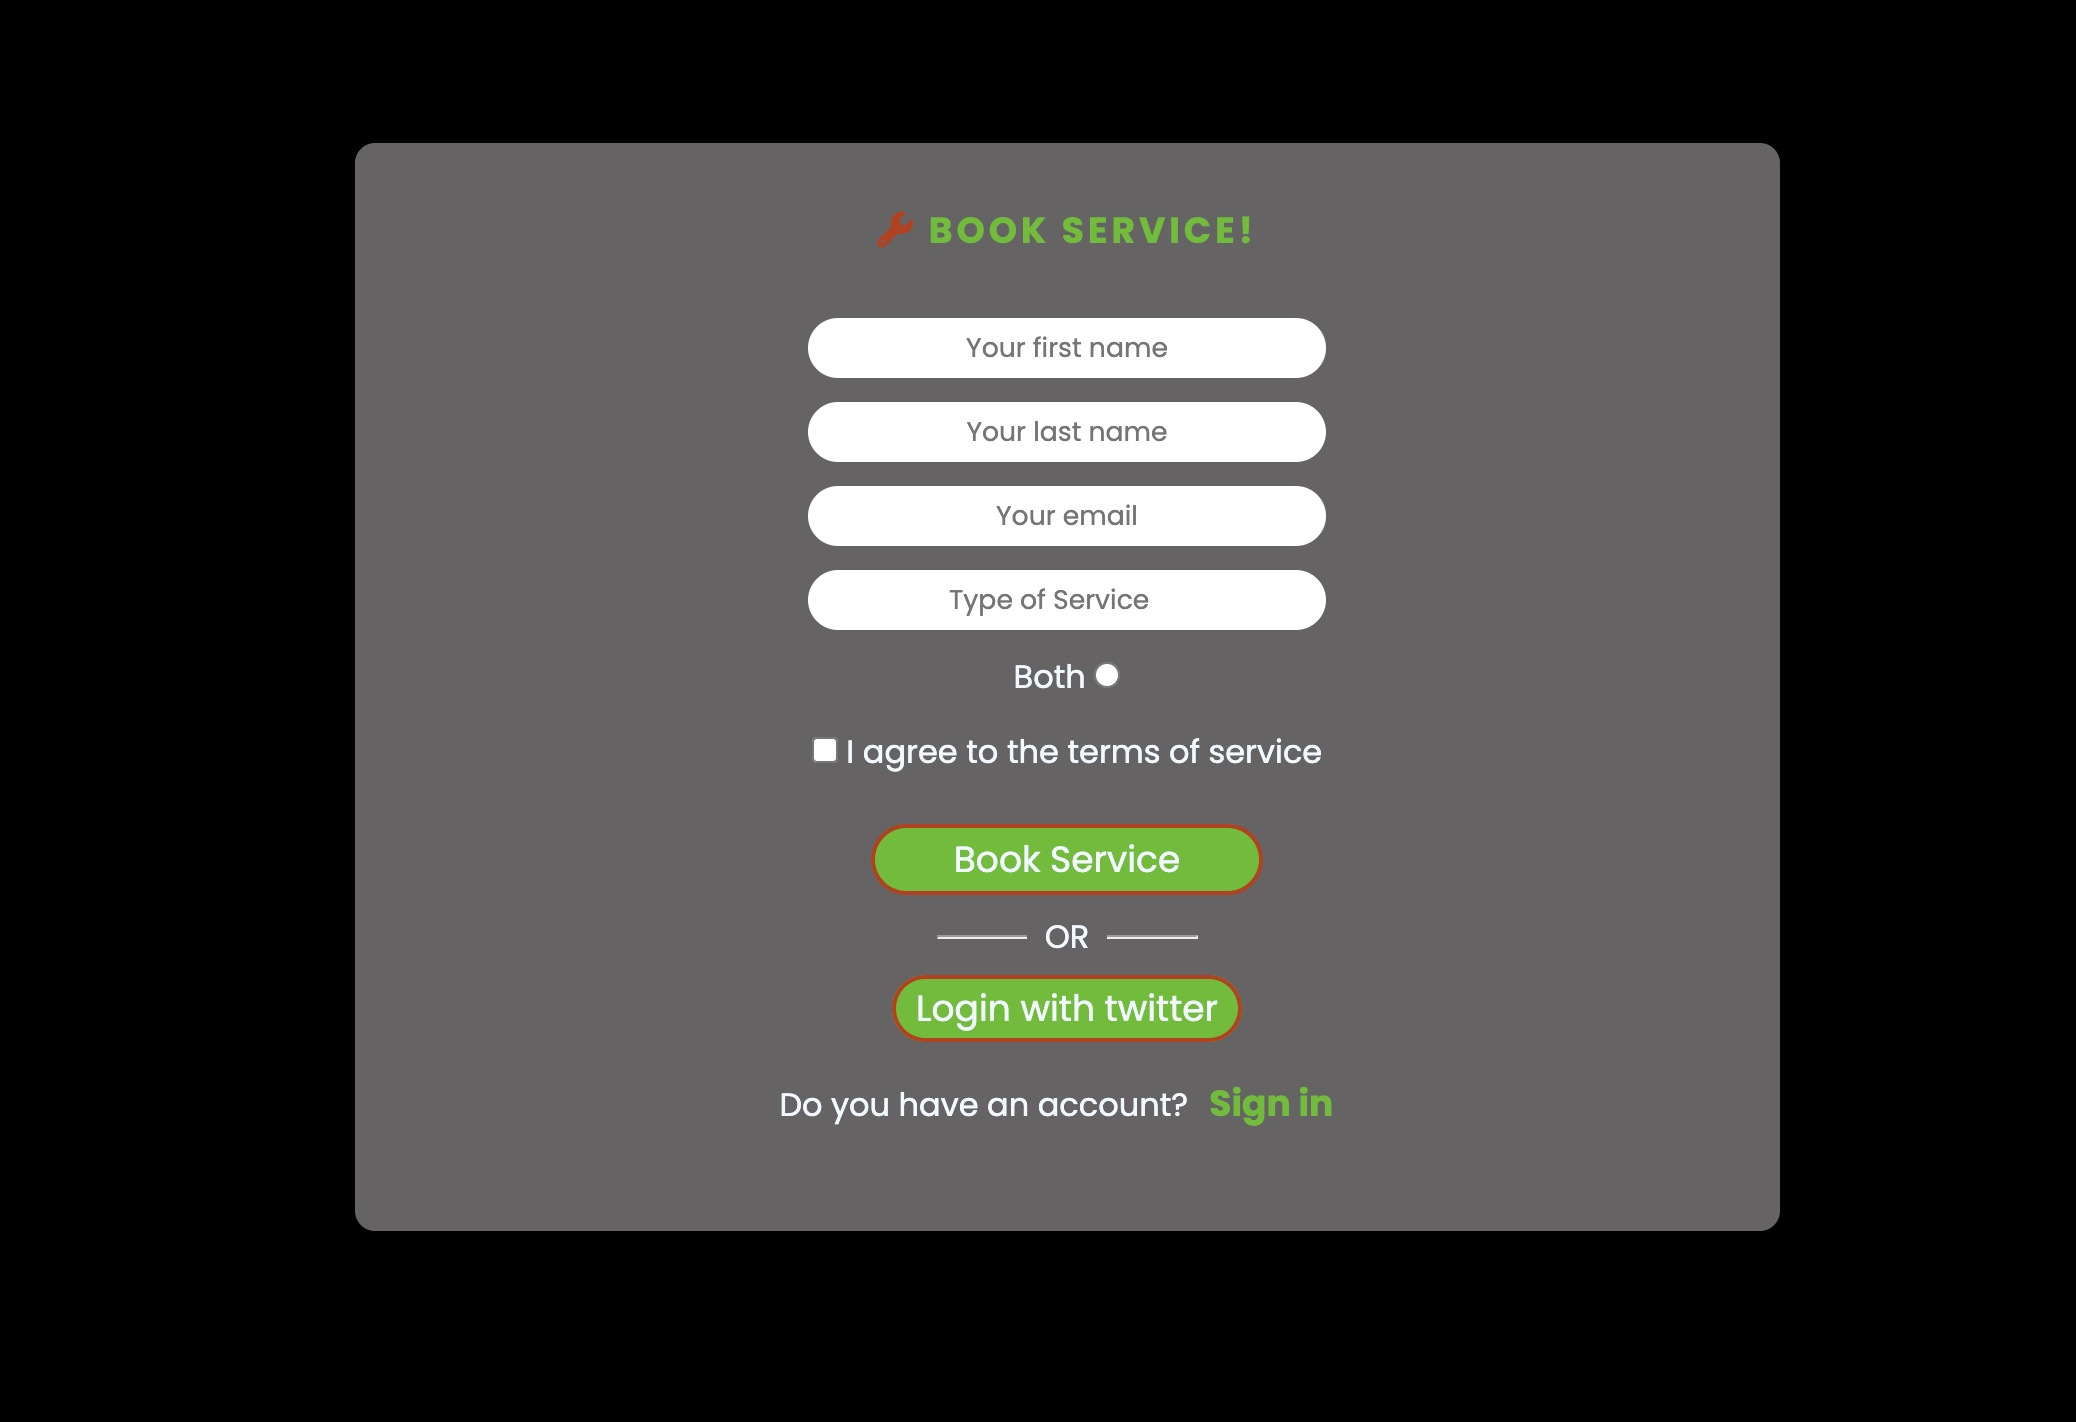
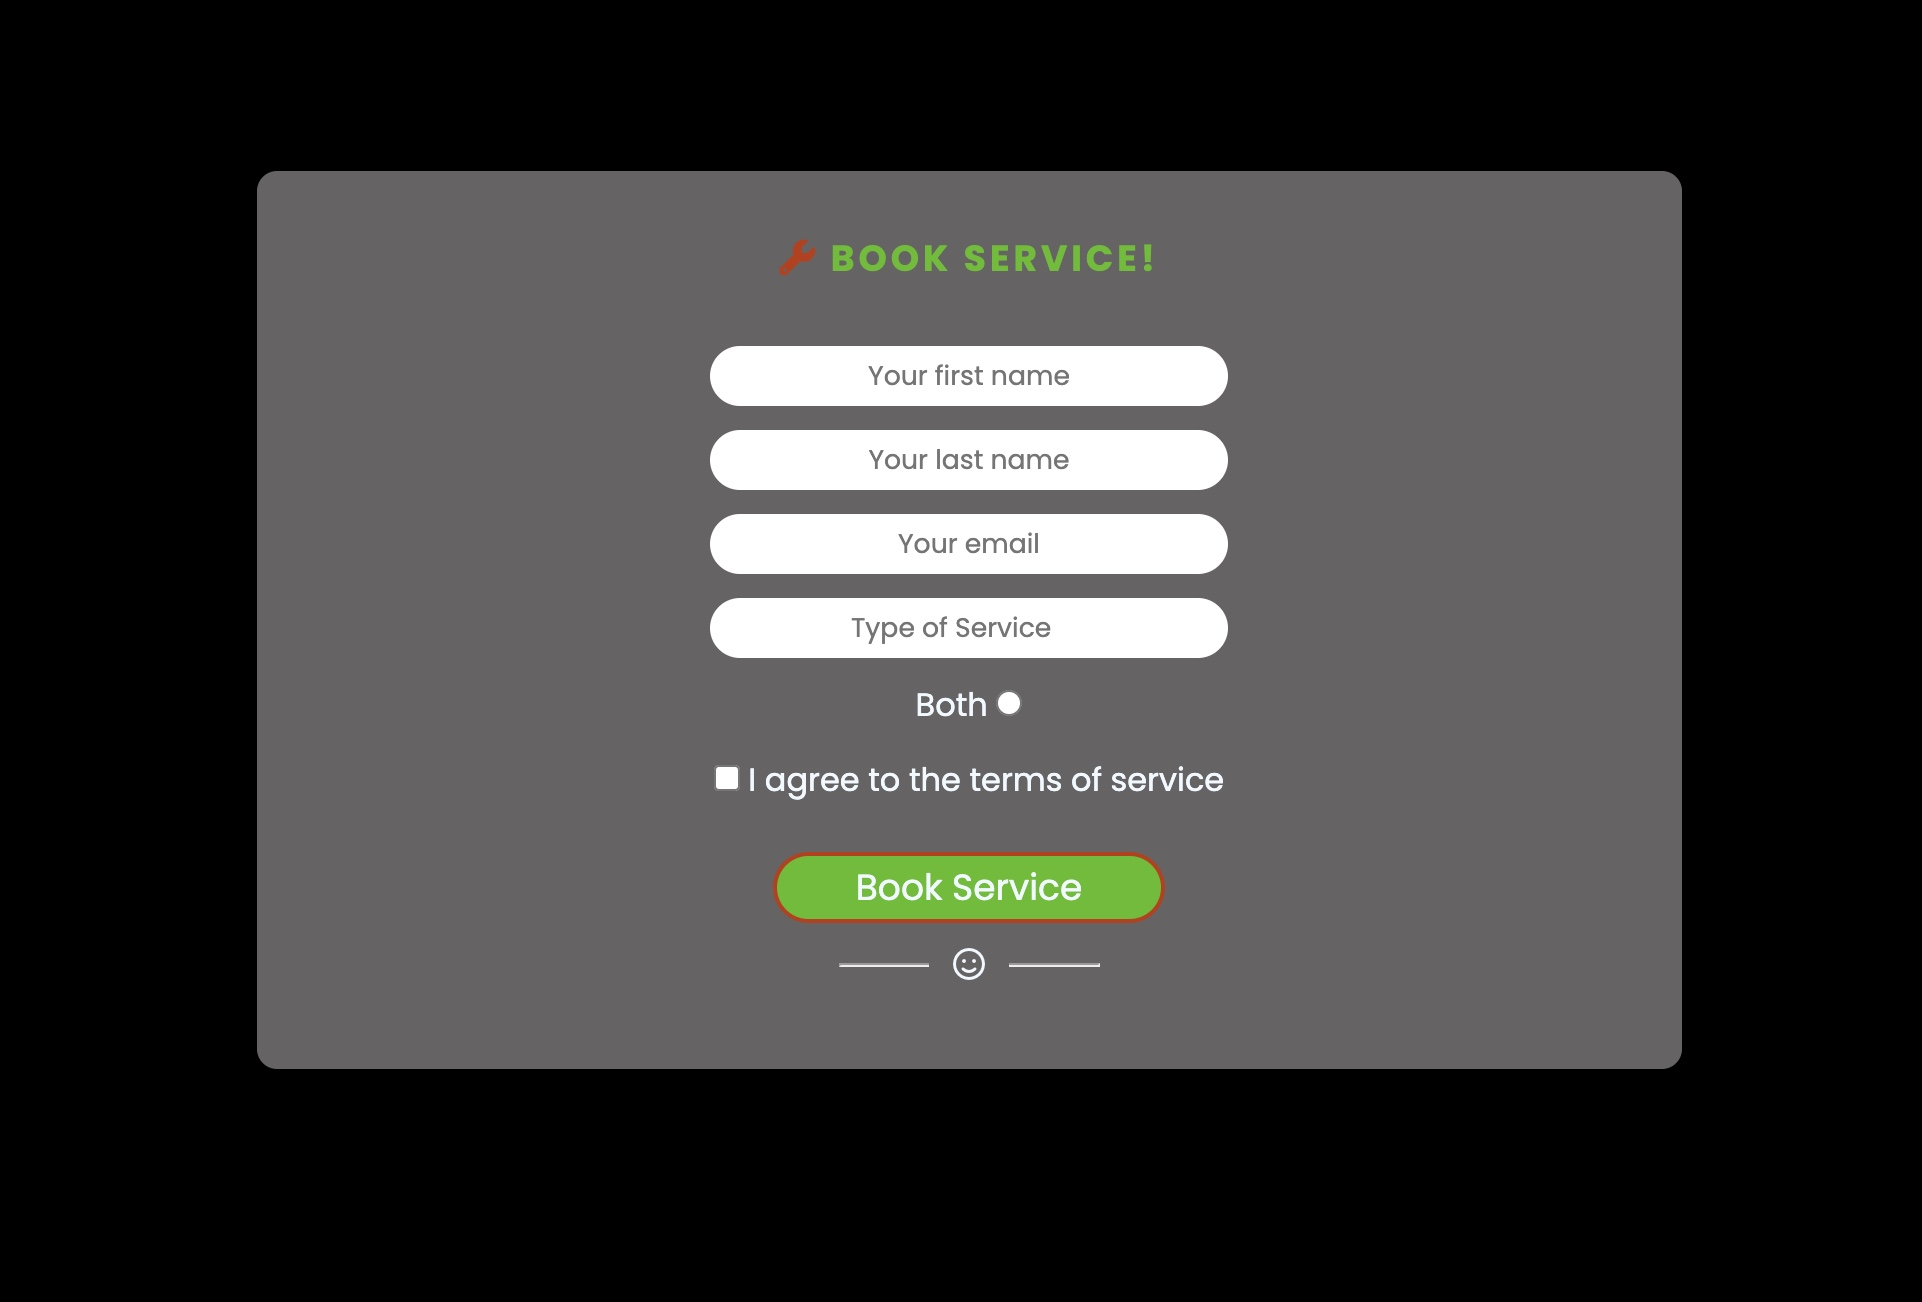
fix content of book service page in readme file and changed image also in images folder

Changed region(s): [[0.1249, 0.0922, 0.8741, 0.8909]]

diff --git a/README.md b/README.md
@@ -41,14 +41,13 @@ of a sustainable means to achieve its services. Below is an image of Welding pag
 </a>
 
 
-### Booking Service page
+### Book Service page
 
 This is the third and final page. It provides form to fill which includes first name, 
 last name, and email. It also contains a datalist which indicates if someone 
 is in need of car repairs services or welding services. It also contains a checkbox for 
 those who are in need of both services. There is another checkbox to agree with terms of use.
-And finally, it it provides room to book service directly or login with a twitter account or sign in
-for existing account users. See photo below:
+And finally, it it provides room to book service.
 
 <a>
 <img src="assets/images/bserv.png" alt="Booking Services page">
